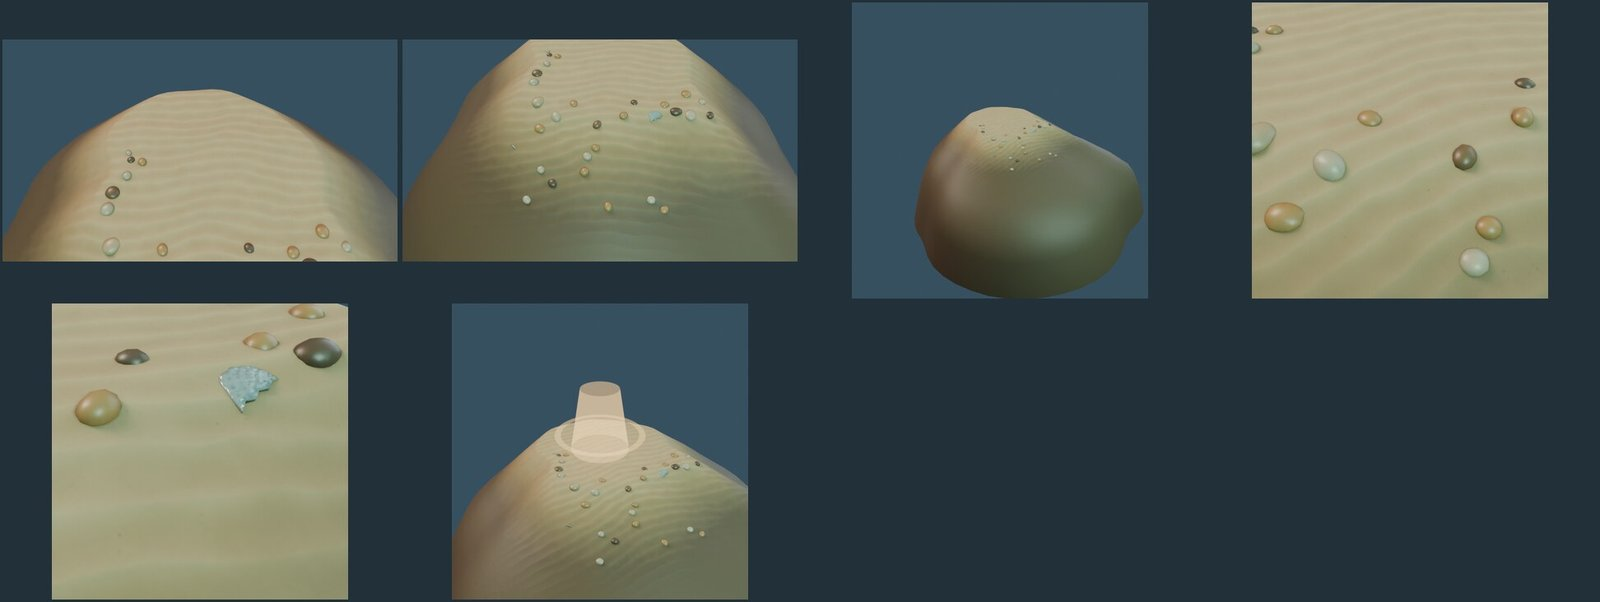
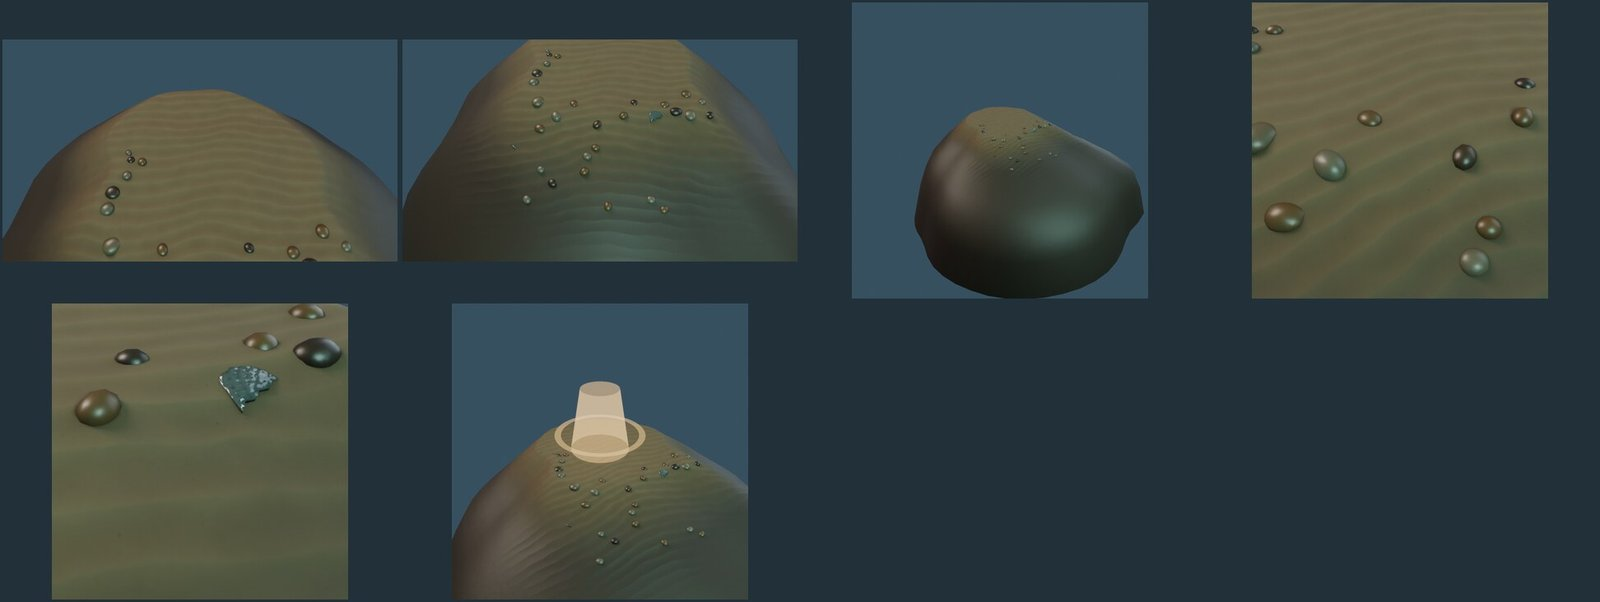
Shore piece: Gate 4 in the real pool, after frames, gate sheets of the final bake
Gate 4 passes in Compatibility and Forward+ at size 4 with one criterion open:
the sand under the cell reads L* 47.0 (Forward+ 47.3), inside its window and
14 to 24 above the fluid, but only 6.4 under the cell (53.4), not 15; the cell
leads by hue and chroma instead (CIE76 35.1), left for the owner's look review.
The ring peaks at L* 75.4 at the pulse's top in both renderers, the shaft reads
as a column of light without lighting the cell, the dialog stays legible, and
the home run's cradle ring lies half-buried at the foot of the ramp. The Gate 1
to 3 sheets are re-rendered from the final bake (the sand now reads olive-khaki
under the review rig: the exposure-matched albedo), and the brief records the
as-baked palette, the light's uniforms and the in-game wiring.

Claude-Session: https://claude.ai/code/session_01EbsMKkedUw81MYFxDbwL8k

diff --git a/docs/art/shore_piece.md b/docs/art/shore_piece.md
@@ -41,8 +41,9 @@ The production rules apply too: a Blender source in `assets/source/blender/`, a 
 - The cell is always about 1 tm across, because growth re-expresses the world, not the cell. So the piece is
   authored at size 4 with **1 m = 1 tm at the size shown**, and the view never rescales it.
 - Points below the plane draw toward the camera (south): about 1 tm on screen at 1.6 m deep and about 2.8 tm at 6 m.
-- When the shore rises it is 20 tm off screen and only its arrow shows. The bank enters at the top edge when the cell
-  is about 12 tm south of it.
+- When the shore rises it is 20 tm off screen and only its arrow shows; the bank's long south skirt already lies under
+  the cell then, dim in the fog (Gate 4, frame 01). The lit shelf, the ring and the foot of the shaft enter at the top
+  edge when the cell is about 10 to 12 tm south of the shore point.
 
 ## Look direction
 
@@ -77,7 +78,7 @@ walls all round), so the slopes now run straight and long and the skirt eases in
 | South ramp | straight at about 26°, from the brink down 8 m (to about -10 m, about 16 m out) | The rounded brink (0.3 m) is the shelf's edge as seen from the approach. Flanks (east, west) at about 36° for 6 m of fall; the north face behind the crest at about 48° for 4 m, with a sharp crest edge (0.15 m rounding). |
 | Skirt | easing from the end of each slope to -20 m: outer radius about 28 m south, 19 to 20 m east and west, 14 m north | In 50 to 80% fog. The outer rings are depth contours, so the skirt's UV strip splits cleanly by depth. |
 | Grains | 28, 0.3 to 1.0 m, plus 2 broken glass valves (r 0.85 and 0.6 m) | Half sunk along the south brink, spilling down the ramp, a few by the spit and by the west notch; none within 1.3 m of the pivot. The highest solid vertex is a grain at -1.577 m (`sand_top_m` in the record is that measured top); the bank surface itself stays at or under -1.6 m. |
-| Light shaft (`Shaft`) | open cone, top r 1.8 m, bottom r 2.8 m, from -1.6 m to +4.5 m | 24 segments, UV v from bottom (0) to top (1). |
+| Light shaft (`Shaft`) | open cone, top r 1.8 m, bottom r 2.8 m, from -1.6 m to +4.5 m | 24 segments, UV v from bottom (0) to top (1) in Blender. glTF flips v; `M_ShoreLight` flips it back. |
 | Reach ring (`Reach`) | flat annulus, r 3.7 to 4.3 m around `REACH_TM` 4.0, at y -0.05 | On the swim plane, not on the sand: sand at -1.6 m draws about 1 tm south on screen and would mislead the player about where the offer opens. 64 segments, UV v from inner (0) to outer (1). |
 
 Total footprint 42.9 by 41.7 m (most of it fogged skirt); Z from -20 m to +4.5 m with the shaft.
@@ -87,7 +88,10 @@ Rig family: none. A static piece, no animation; the pulse is a shader uniform.
 ## Material family
 
 - **Sand (bank and grains): one baked material, `M_ShorePiece`**, with `T_ShorePiece_Albedo`, `ORM` and `Normal` at
-  **1024 px** (lead decision). Procedural in Blender, then baked:
+  **1024 px** (lead decision). Procedural in Blender, then baked. The whole base colour is scaled once by
+  `ALBEDO_GAIN` 0.27 before the bake (Gate 4 round 1: the pool's sun and ambient light the sand at about 1.9 times its
+  albedo on screen, so the unscaled shelf read L* 77 behind the cell, brighter than the coral cell; scaled, it reads
+  L* 43 to 47):
   - wet-to-dry ramp by height: darker and glossier with depth (roughness 0.6), palest and matte on the crest (0.9);
   - ripple marks, wavelength 0.72 m, sharp crests and broad troughs, about 0.035 m deep, plus 2.6 m swells. They run
     east-west (parallel to the shore in the north) and bend to follow the brink on the south half; they fade below
@@ -101,29 +105,36 @@ Rig family: none. A static piece, no animation; the pulse is a shader uniform.
   GLB's import file like `assets/export/M_CheckpointColumn.tres`: unshaded, `blend_add`, `cull_disabled`, `depth_draw_never`,
   `fog_disabled`, `shadows_disabled`. `test_assets` allows one `engine_material` per record, so the two parts share
   it and a per-vertex weight (`COLOR_0` from a `LightWeight` attribute, raw values) tells them apart: red is the
-  part's strength (shaft 0.45, ring 1.0), green 0 for the shaft (it fades at both ends and toward its silhouette) and
-  1 for the ring (a soft band across UV v). The pulse sets a duplicate's `strength`, never the shared material file.
-  The builder writes that material file (tint #FFD486); its strengths are first guesses for Gate 4 to tune.
+  part's strength (shaft 0.45, ring 1.0), green 0 for the shaft and 1 for the ring (a soft band across UV v). The
+  builder writes that material file (tint #FFD486) with the light's Forward+ look as uniforms, tuned in Gate 4:
+  `shaft_gain` 0.85 and `ring_gain` 0.35; the shaft fades from the sand up from `shaft_fade` 0.4 of its height to its
+  top and toward its silhouette as facing^`shaft_edge` 1.5; and its wall toward the camera fades out from the sand up
+  to `near_top` 0.6 of its height, because that wall stands between the camera and a cell in the light (it lifted the
+  cell 4 to 10 L*), so the far wall carries the column. `ShoreView` sets `renderer_gain` (x the shaft, y the ring) to
+  (1.0, 0.9) in Compatibility, where the ring reads about 3 L* brighter, and pulses a duplicate's `strength` (0.75 to
+  1.25 at 0.5 Hz), never the shared material file.
 - **Palette (sand albedo):** LAB hue 70 to 85°, chroma 15 to 30, linear luminance at most 0.40 everywhere (the
   below-plane rule, `tests/test_s2_assets.gd`: pieces wholly below the plane keep albedo luminance at or under 0.40).
 
-  As built (the sand ramp's stops, wet to dry):
+  As built (the sand ramp's stops, wet to dry, as authored and as baked after `ALBEDO_GAIN`; L*, C, h and luminance
+  are the baked colour's):
 
-  | Role | Colour | L* | C | h | linear luminance |
-  | --- | --- | --- | --- | --- | --- |
-  | wet deep slope | #5C4A36 | 32.8 | 15.5 | 73.3° | 0.074 |
-  | lower ramp | #7A6549 | 44.1 | 19.5 | 77.7° | 0.139 |
-  | upper ramp | #937A57 | 52.7 | 23.2 | 78.6° | 0.208 |
-  | shelf | #A88F6B | 60.8 | 23.0 | 79.8° | 0.290 |
-  | dry crest (top stop) | #B39A76 | 65.0 | 22.7 | 80.1° | 0.340 |
-  | amber feldspar grain | #A27D51 | 55.0 | 30.7 | 73.5° | 0.229 |
-  | quartz grain | #A89A80 | 64.2 | 15.6 | 86.8° (27.6° from food) | 0.330 |
-  | glass valve (highlight) | #9DA8A5 | 67.9 | 4.5 | 177.4° | 0.379 |
-  | light tint | #FFD486 | 87.0 | 44.4 | 82.9° | (additive) |
+  | Role | Authored | Baked | L* | C | h | linear luminance |
+  | --- | --- | --- | --- | --- | --- | --- |
+  | wet deep slope | #5C4A36 | #2F2519 | 15.5 | 10.0 | 73.3° | 0.020 |
+  | lower ramp | #7A6549 | #413524 | 22.9 | 12.6 | 77.7° | 0.038 |
+  | upper ramp | #937A57 | #4F412D | 28.4 | 15.0 | 78.6° | 0.056 |
+  | shelf | #A88F6B | #5B4D38 | 33.6 | 14.9 | 79.8° | 0.078 |
+  | dry crest (top stop) | #B39A76 | #62533E | 36.3 | 14.7 | 80.1° | 0.092 |
+  | amber feldspar grain | #A27D51 | #584329 | 29.9 | 19.8 | 73.5° | 0.062 |
+  | quartz grain | #A89A80 | #5B5344 | 35.8 | 10.1 | 86.8° (27.6° from food) | 0.089 |
+  | glass valve (highlight) | #9DA8A5 | #555B5A | 38.3 | 2.9 | 177.4° | 0.102 |
+  | light tint | #FFD486 | (engine) | 87.0 | 44.4 | 82.9° | (additive) |
 
-  Baked albedo audit (`tools/blender/render_shore_piece.py --audit`, final bake): linear luminance max 0.339, median 0.12 over the
-  used texels, about 0.28 on the shelf; chroma-12+ texels at hue 73.6 to 80.6° (p5 to p95); 0.01% of texels within
-  25° of the food hue and 0.00% of the threat hue (limit 2% each).
+  Baked albedo audit (`tools/blender/render_shore_piece.py --audit`, final bake): linear luminance max 0.093, p99
+  0.084, median 0.019 over the whole atlas (unused texels included); chroma-12+ texels (32% of all) at hue 76.1 to
+  80.8° (p5 to p95); 0.00% of texels within 25° of the food hue and 0.00% of the threat hue (limit 2% each).
+  `tests/test_shore_piece.gd` checks the median luminance and the hue shares on the imported texture.
 
   Reserved hues: food #CFE86A (h 114.4°) and threat #D9466B (h 11.1°), with a 25° gap rule. The sand (h 70 to 85°)
   keeps at least 29° from food and 59° from threat; the light tint (82.9°) keeps 31.5° from food. The coral player
@@ -147,7 +158,8 @@ Rig family: none. A static piece, no animation; the pulse is a shader uniform.
 - Builder: `tools/blender/make_shore_piece.py`, its own script (lead decision), patterned on
   `tools/blender/make_endless_extras.py` and using the shared helpers (`blockout_common`, `surfacing`, `lookdev`)
   without editing them. It writes the Blender source, the GLB, the record and the light material; `--import` maps the light
-  material in `assets/export/shore_piece.glb.import` after a Godot import. `--rough` saves the unbaked build to a
+  material in `assets/export/shore_piece.glb.import` after a Godot import; `--light` rewrites only the light material
+  (light tuning without a bake). `--rough` saves the unbaked build to a
   scratch Blender file for shape review; `--root=DIR` writes every output under DIR instead of the repository (the chunk 2
   bakes went to `/home/user/xdg/shore/scratch/build`, so no record sat in the repo before the atomic commit).
   Build-time checks: no bank, grain or valve vertex above -1.55 m; the shelf under every point of the r 4 circle
@@ -155,7 +167,16 @@ Rig family: none. A static piece, no animation; the pulse is a shader uniform.
   most 6000 triangles.
 - Gate renders: `tools/blender/render_shore_piece.py` into `/home/user/xdg/shore/scratch/gates` (outside Git); `--blend`
   picks the build, `--audit` writes the baked albedo and prints its luminance and hue numbers.
-- In-game frames: `tools/godot/shore_shots.gd` (size 4, seed 4248, open sea or `--home`).
+- In-game frames: `tools/godot/shore_shots.gd` (size 4, seed 4248, open sea or `--home`); each shot's notes give the
+  light's pulse strength.
+- Regenerating: `python3 tools/blender/make_shore_piece.py`, `godot --headless --import`, `make_shore_piece.py
+  --import`, `godot --headless --import` (the mapping then survives every later re-import, checked in chunk 3).
+- In game (IMPLEMENTED): `game/scenes/pool/shore_view.gd` instantiates the GLB as `Model` under `Shore`, turns
+  shadows off on every part, gives `Shaft` and `Reach` one duplicate of `M_ShoreLight` (with the renderer's gains) as
+  their override, and scales `Reach` by `ShoreLink.REACH_TM / 4.0` (1 today). `place()` and `pulse()` keep their API;
+  no primitive is left in the file. `game/scenes/pool/pool.gd` adds `ShoreView.warm_up_meshes()` to the start fade's
+  warm-up in endless mode only. `tests/test_shore_piece.gd` covers the record, the swim band, the ring, the light, the
+  view and the warm-up.
 - The record, the `game/scenes/pool/shore_view.gd` swap and the inventory entry removal land in **one commit**, because
   `test_placeholders` fails on a placeholder whose asset has a record and on an unlisted primitive.
 
@@ -173,6 +194,37 @@ In game, `gl_compatibility` at 1920x1080, zoom 14, size 4 (`tools/godot/shore_sh
 7. No clipping or ugly overlap side-on (06) or near home with the cradle ring (`--home`); partly buried kit pieces
    are acceptable if they read as natural.
 8. Both zoom extremes (07, 08) read.
+
+### Results on the final export (Gate 4, IMPLEMENTED unless marked)
+
+Compatibility readings from the final run of `tools/godot/shore_shots.gd` (open sea; the light's pulse at each shot
+in brackets), Forward+ (lavapipe) for 02, 03 and 05:
+
+1. **Met, with a note.** In 02 the cell is already over the long south ramp (the ramp runs about 16 m out from the
+   brink, then the skirt), so the bank does not "emerge from the fog at the top"; it reads as a rippled slope rising
+   to the lit crest and the ring at the top edge. Sand ahead of the cell L* 40.2 (Forward+ 40.6).
+2. **Partly met.** Sand under the cell with the cell hidden (05): L* 47.0 (Forward+ 47.3), in the 36 to 48 window,
+   and 14 to 24 above the fluid (L* 23 to 33). The sand 1.8 tm north of the cell lies in the shaft's lit foot: L*
+   65.8 (Forward+ 68.0). **Not met:** the cell is only 6.4 L* above the sand under it, not 15: the coral cell reads
+   L* 53.4 in Compatibility (54.0 to 54.5 in Forward+), not the 62 the criterion assumed, and the sand cannot sit 15 below
+   that and 8 above the fluid. The cell stays the clearest thing in its neighbourhood by hue and chroma: CIE76 35.1
+   between the cell (C 45, h 43°) and the sand under it (C 14, h 79°), 37.3 against the plain sand in 06. For the
+   owner's look review.
+3. **Met.** The ring reads in front of the cell in 03. At the pulse's top (1.25) it peaks at L* 75.4 on the shore
+   point (05) in Compatibility and 75.4 in Forward+; the swept peaks were 71.4 to 75.4 (Compatibility, with its 0.9
+   factor) and 73.2 to 75.4 (Forward+).
+4. **Met.** The shaft reads as a column of light rising from the landing (03, 07, 08), not as a solid; the "Crawl onto
+   land?" dialog (04) is legible over the dimmed bank. The cell in the light is not lit by it (cell L* 53.4 in every
+   shot, 05 included).
+5. **Met.** Build check and `test_nothing_solid_enters_the_swim_band`: the highest solid vertex is -1.577 m.
+6. **Met.** 0.00% of chroma-12+ texels near food or threat (audit and `test_the_sand_keeps_dim_and_clear_of_reserved_hues`).
+7. **Met (PROPOSED judgement).** No clipping side-on (06). With `--home` the shore rises 18 tm north of the home
+   spawn: the cradle ring lies half-buried at the foot of the south ramp (the sand runs through its bowl), which reads
+   as a drift; the home beacon stands on the shelf west of the ring, so the ring's west reading there (L* 74 to 82, h
+   259 to 269°) is the beacon's blue, not the ring. Kit pieces (diatom columns, a shell) stand on the bank where the
+   world placed them.
+8. **Met.** Zoom 10 (07): the grains read as large pebbles, ring and lit foot in frame. Zoom 20 (08): the whole
+   landing with the column of light rising over the crest.
 
 ## Target contract
 
@@ -193,10 +245,10 @@ Each gate is pass, needs revision or unverified, with an observable reason, afte
 
 | Gate | Result | Evidence and reason |
 | --- | --- | --- |
-| 1 Shape (neutral gray front, side, three-quarter, game camera, grazing light) | pass (Blender, final bake) | [gate1_gray_sheet.jpg](../evidence/credit-shore/gate1_gray_sheet.jpg): front, side, three-quarter, south, plan, game camera at the shore point and 10 m south, grazing. The side view shows the long straight south ramp, the flat shelf and the steeper north face behind the crest. The plan shows a lobed outline with the south-east spit and the west notch, not a disc. At the game camera the shelf, the brink curve on the west and the north crest edge against the deep all read. Grains sit half sunk, none floating. The first three shape passes were a gumdrop (a flat top on a rounded mound, walls all round) and were revised. Remaining: in the side views the deep skirt below about -10 m is still a broad rounded mound. In game it lies in 50 to 80% fog; Gate 4 must check it does not read as a wall in the 02 frame. |
-| 2 Materials with identity (close-up) | pass (Blender, final bake) | [gate2_material_closeup.jpg](../evidence/credit-shore/gate2_material_closeup.jpg) (crest, grains and valve, game camera). Matte sand with sharp-crested east-west ripple marks and sparse flecks; frosted grains in quartz cream, amber feldspar and umber, distinct from the sand; the glass valve reads as a broken porous glass plate; the ramp darkens and turns glossier with depth. The first bake had a dark occlusion disc under the shaft and closed ripple loops on the crest. Both were fixed (the light parts are added after the bake; the north half's ripples stay east-west). Albedo audit as in the palette section: max luminance 0.339, no reserved hues. The base colour carries only `bake_set`'s 30% AO darkening, no directional light. |
-| 3 Neutral lighting | pass (Blender, final bake) | [gate3_neutral_sheet.jpg](../evidence/credit-shore/gate3_neutral_sheet.jpg): the shared review rig (`lookdev.review_lighting`: warm key, cool fill, teal rim, fixed AgX exposure). The sand is not clipped and the dark slopes stay readable. The deep skirt turns olive under the teal rim and cool fill; that is the rig, since its albedo is brown (h 73°). In the grazing view a 9° sun over the gray with the baked normal map shows ripples parallel to the crest, with no noise and no loops. The light shaft and ring show here only as a Blender preview; their engine look is Gate 4's. |
-| 4 Export and Godot at gameplay distance (the real pool at size 4, approaching and at the shore) | unverified | not built yet |
+| 1 Shape (neutral gray front, side, three-quarter, game camera, grazing light) | pass (Blender, final export) | [gate1_gray_sheet.jpg](../evidence/credit-shore/gate1_gray_sheet.jpg), re-rendered from the committed `assets/source/blender/shore_piece.blend`: front, side, three-quarter, south, plan, game camera at the shore point and 10 m south, grazing. The side view shows the long straight south ramp, the flat shelf and the steeper north face behind the crest. The plan shows a lobed outline with the south-east spit and the west notch, not a disc. At the game camera the shelf, the brink curve on the west and the north crest edge against the deep all read. Grains sit half sunk, none floating. The first three shape passes were a gumdrop (a flat top on a rounded mound, walls all round) and were revised. In the side views the deep skirt below about -10 m is still a broad rounded mound; in game it lies in the fog and reads as a dim slope, not a wall (Gate 4 frames 01 and 02). |
+| 2 Materials with identity (close-up) | pass (Blender, final export) | [gate2_material_closeup.jpg](../evidence/credit-shore/gate2_material_closeup.jpg) (crest, grains and valve, game camera), re-rendered from the final bake. Matte sand with sharp-crested east-west ripple marks and sparse flecks; frosted grains in quartz, feldspar and umber tones, distinct from the sand; the glass valve reads as a broken porous glass plate; the ramp darkens with depth. Since Gate 4 round 1 the whole albedo carries `ALBEDO_GAIN` 0.27, so under the review rig the sand reads olive-khaki and the grains read as glossy pebbles rather than pale beads; the chunk 2 (unscaled) sheets are in Git history at 38341dad. Albedo audit as in the palette section: max luminance 0.093, no reserved hues. The base colour carries only `bake_set`'s 30% AO darkening, no directional light. |
+| 3 Neutral lighting | pass, with a noted difference (Blender, final export) | [gate3_neutral_sheet.jpg](../evidence/credit-shore/gate3_neutral_sheet.jpg): the shared review rig (`lookdev.review_lighting`: warm key, cool fill, teal rim, fixed AgX exposure), final bake. Nothing clips; the shelf and ramp keep their ripples and the grains their highlights. The difference: with the exposure-matched albedo the deep skirt goes near-black-green in the three-quarter view under the rig's teal rim and cool fill, so the review rig no longer shows the slope's tone well. That is the rig's exposure, set for a 1 m creature; in the pool's own light (Gate 4) the skirt reads as a dim fogged slope. In the grazing view a 9° sun over the gray with the baked normal map shows ripples parallel to the crest, with no noise and no loops. The light shaft and ring show here only as a Blender preview; their engine look is Gate 4's. |
+| 4 Export and Godot at gameplay distance (the real pool at size 4, approaching and at the shore) | pass, with acceptance criterion 2's L* gap open (above) | Export: 5158 triangles (budget 6000), two surfaces (`M_ShorePiece` with three 1024 px textures; `M_ShoreLight` engine material), 42.9 x 41.7 x 24.5 m, pivot on the shore point, faces -Z. Imported: `Shaft` and `Reach` draw with `res://assets/export/M_ShoreLight.tres` (the `.glb.import` mapping survived four re-imports), `COLOR_0` arrives raw (0.447 and 1.0), the bank's top is -1.577 m, the ring lies at y -0.05 from r 3.7 to 4.3. Frames: [after_02_approach.jpg](../evidence/credit-shore/after_02_approach.jpg), [after_03_reach_edge.jpg](../evidence/credit-shore/after_03_reach_edge.jpg), [after_04_offer.jpg](../evidence/credit-shore/after_04_offer.jpg), [after_05_on_shelf.jpg](../evidence/credit-shore/after_05_on_shelf.jpg), [after_08_zoom20.jpg](../evidence/credit-shore/after_08_zoom20.jpg), [after_home_02_approach.jpg](../evidence/credit-shore/after_home_02_approach.jpg), [gate4_godot_game.jpg](../evidence/credit-shore/gate4_godot_game.jpg) (`tools/godot/capture_asset.gd`, the game camera over the pool's fluid). Round 1 (the export as chunk 2 baked it) read the sand at L* 65 to 78 and the ring at 95 to 99, with no visible shaft (its fade ran upside down after glTF's v flip); rounds 1 and 2 fixed the albedo exposure, the shader's v and the light's gains (commits 63f2188e, 66121703). Readings: the results above. The three largest remaining differences: (1) the sand reads khaki-tan, paler than the fluid and palest on the crest, but not "pale sand" in absolute terms, the price of keeping it under the cell; (2) the shaft is a hollow tube: the sand inside its foot, seen through the open top, stays darker than the lit walls around it, a soft disc most visible at the capture tool's low close-up; (3) the grains read as glossy pebbles and show polygon facets at zoom 10 and closer. |
 
 ## Before frames (the placeholder)
 
@@ -220,3 +272,21 @@ What the placeholder gets wrong, and what the piece must fix: no ground or landf
 walls clip to white in this renderer and wash out the cell; the disc reads as glass, not sand. The `--home` run
 shows the cradle ring filling the south of the frame at 10 tm, so the landing's skirt must be checked against the
 cradle's rim in Gate 4.
+
+## After frames (the shore piece)
+
+The same tool, seed, offsets and renderer on the final export (tuning round 2, base main 71c61fe5), Compatibility
+unless named; the light's pulse strength at each shot in brackets.
+
+| Frame | What it shows | Readings (L*) |
+| --- | --- | --- |
+| 01 risen (1.09) | The toast and the "Shore 20 m" arrow; the bank's south skirt already lies under the cell, dim in the fog. | fluid 25.3, ahead of the cell 32.5 |
+| 02 approach, 10 tm south (1.10) ([jpg](../evidence/credit-shore/after_02_approach.jpg)) | The cell over the rippled south ramp, which rises to the paler crest; the ring and the shaft's foot at the top edge, partly behind the message panel. | sand ahead 40.2, ring 66.1; Forward+ sand 40.6, ring 69.2, cell 54.5 |
+| 03 reach edge, 4.6 tm (0.77) ([jpg](../evidence/credit-shore/after_03_reach_edge.jpg)) | The ring just ahead of the cell; the column of light rising from the landing behind it. | ring 61.2, sand 1.8 tm ahead (the shaft's foot) 59.6; Forward+ ring 66.1, 63.6 |
+| 04 offer, 3 tm (0.77) ([jpg](../evidence/credit-shore/after_04_offer.jpg)) | "Crawl onto land?" over the dimmed bank; legible. | dimmed |
+| 05 on the shore point (1.25) ([jpg](../evidence/credit-shore/after_05_on_shelf.jpg)) | The cell inside the ring, standing in the shaft's lit foot without being lit by it. | cell 53.4, sand under it (hidden) 47.0, sand 1.8 tm north 65.8, ring 75.4; Forward+ cell 54.0, under 47.3, north 68.0, ring 75.4 |
+| 06 east, 6 tm (0.83) | The bank's flank and the ring side-on; no clipping. | plain sand 43.3, ring 65.6 |
+| 07 zoom 10 (0.99) | Large grains, the ring and the lit foot. | ring 71.9 |
+| 08 zoom 20 (1.19) ([jpg](../evidence/credit-shore/after_08_zoom20.jpg)) | The whole landing, the ring, and the column of light over the crest. | ring 60.3 |
+| home 02 ([jpg](../evidence/credit-shore/after_home_02_approach.jpg)) | `--home`: the cradle ring half-buried at the foot of the ramp, the bank running through its bowl. | |
+
